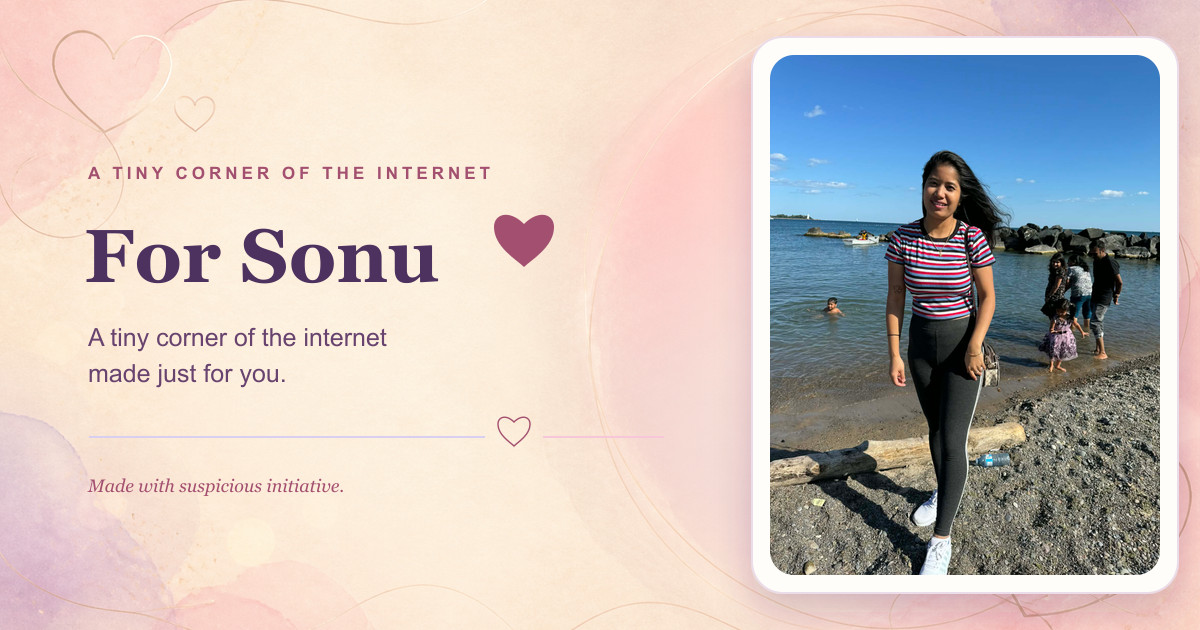
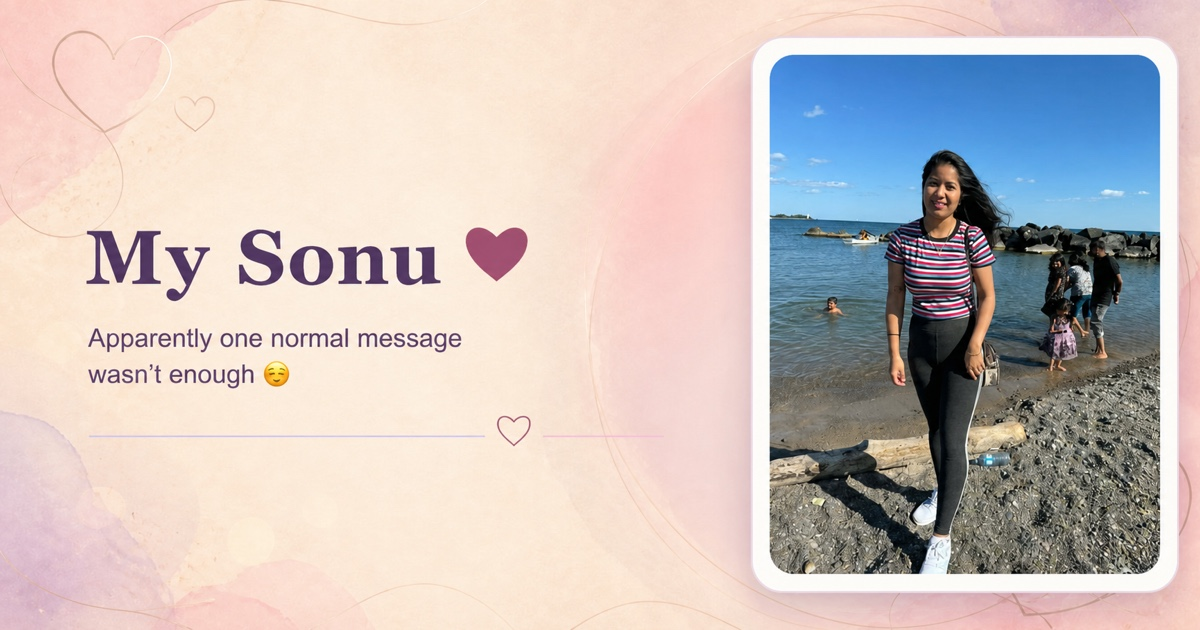
fix: personalize Sonu social preview

diff --git a/index.html b/index.html
@@ -7,19 +7,19 @@
     <meta name="color-scheme" content="light" />
     <meta name="robots" content="noindex,nofollow" />
     <meta name="description" content="A tiny corner of the internet made for one unexpectedly interesting person." />
-    <meta property="og:title" content="For Sonu ❤" />
-    <meta property="og:description" content="A tiny corner of the internet made for one unexpectedly interesting person." />
+    <meta property="og:title" content="My Sonu ❤" />
+    <meta property="og:description" content="You somehow became my favourite little distraction… so I built you a whole corner of the internet 😂❤" />
     <meta property="og:type" content="website" />
     <meta property="og:url" content="https://my-sonu.vercel.app/" />
-    <meta property="og:image" content="https://my-sonu.vercel.app/og-sonu.jpg" />
+    <meta property="og:image" content="https://my-sonu.vercel.app/og-sonu.jpg?v=my-sonu" />
     <meta property="og:image:width" content="1200" />
     <meta property="og:image:height" content="630" />
     <meta property="og:image:type" content="image/jpeg" />
     <meta property="og:image:alt" content="For Sonu, a tiny romantic corner of the internet" />
     <meta name="twitter:card" content="summary_large_image" />
-    <meta name="twitter:title" content="For Sonu ❤" />
-    <meta name="twitter:description" content="A tiny corner of the internet made just for you." />
-    <meta name="twitter:image" content="https://my-sonu.vercel.app/og-sonu.jpg" />
+    <meta name="twitter:title" content="My Sonu ❤" />
+    <meta name="twitter:description" content="You somehow became my favourite little distraction… so I built you a whole corner of the internet 😂❤" />
+    <meta name="twitter:image" content="https://my-sonu.vercel.app/og-sonu.jpg?v=my-sonu" />
     <link rel="canonical" href="https://my-sonu.vercel.app/" />
     <link rel="preconnect" href="https://fonts.googleapis.com" />
     <link rel="preconnect" href="https://fonts.gstatic.com" crossorigin />

diff --git a/test/site.test.jsx b/test/site.test.jsx
@@ -213,11 +213,15 @@ describe('render resilience, privacy and motion accessibility', () => {
     const html = readFileSync(resolve(process.cwd(), 'index.html'), 'utf8')
     expect(html).toContain('content="noindex,nofollow"')
     expect(html).toContain('https://my-sonu.vercel.app/')
-    expect(html).toContain('https://my-sonu.vercel.app/og-sonu.jpg')
+    expect(html).toContain('property="og:title" content="My Sonu ❤"')
+    expect(html).toContain('property="og:description" content="You somehow became my favourite little distraction… so I built you a whole corner of the internet 😂❤"')
+    expect(html).toContain('property="og:image" content="https://my-sonu.vercel.app/og-sonu.jpg?v=my-sonu"')
     expect(html).toContain('property="og:image:width" content="1200"')
     expect(html).toContain('property="og:image:height" content="630"')
     expect(html).toContain('property="og:image:type" content="image/jpeg"')
-    expect(html).toContain('name="twitter:image" content="https://my-sonu.vercel.app/og-sonu.jpg"')
+    expect(html).toContain('name="twitter:title" content="My Sonu ❤"')
+    expect(html).toContain('name="twitter:description" content="You somehow became my favourite little distraction… so I built you a whole corner of the internet 😂❤"')
+    expect(html).toContain('name="twitter:image" content="https://my-sonu.vercel.app/og-sonu.jpg?v=my-sonu"')
     expect(html).toContain('family=Caveat')
     expect(html).toContain('family=Fraunces')
     expect(html).toContain('family=DM+Sans')
